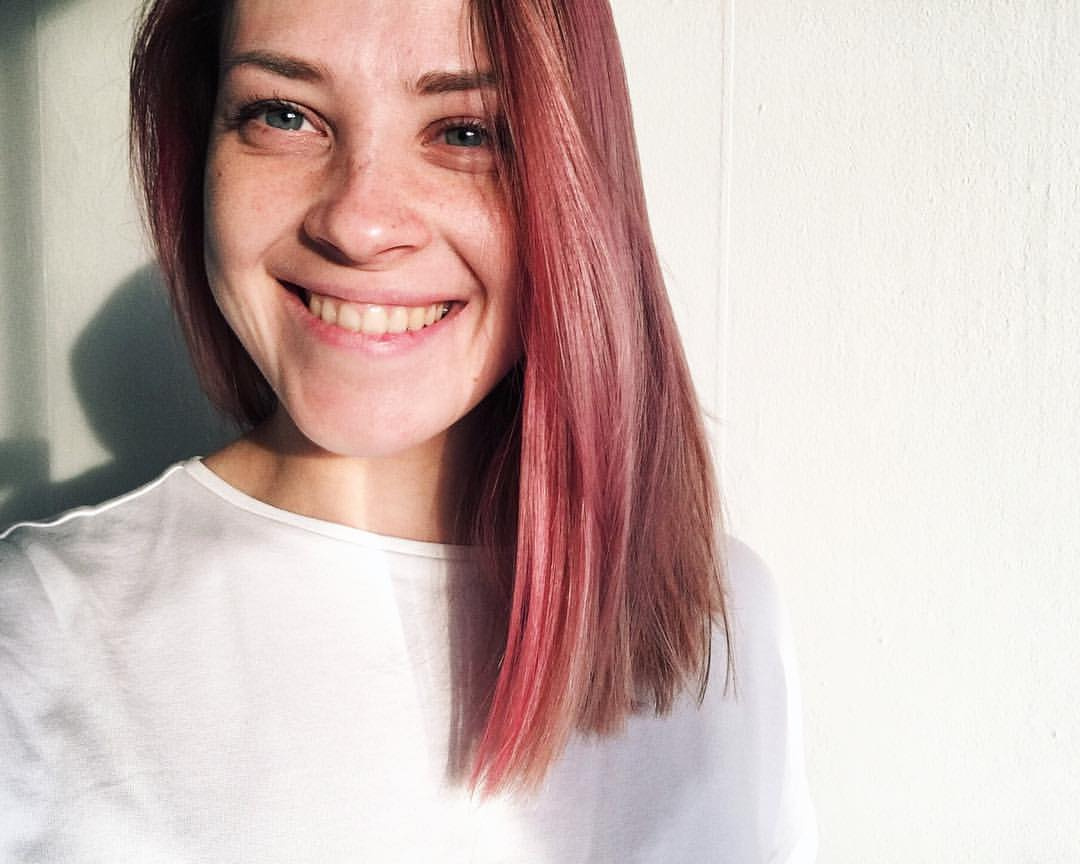
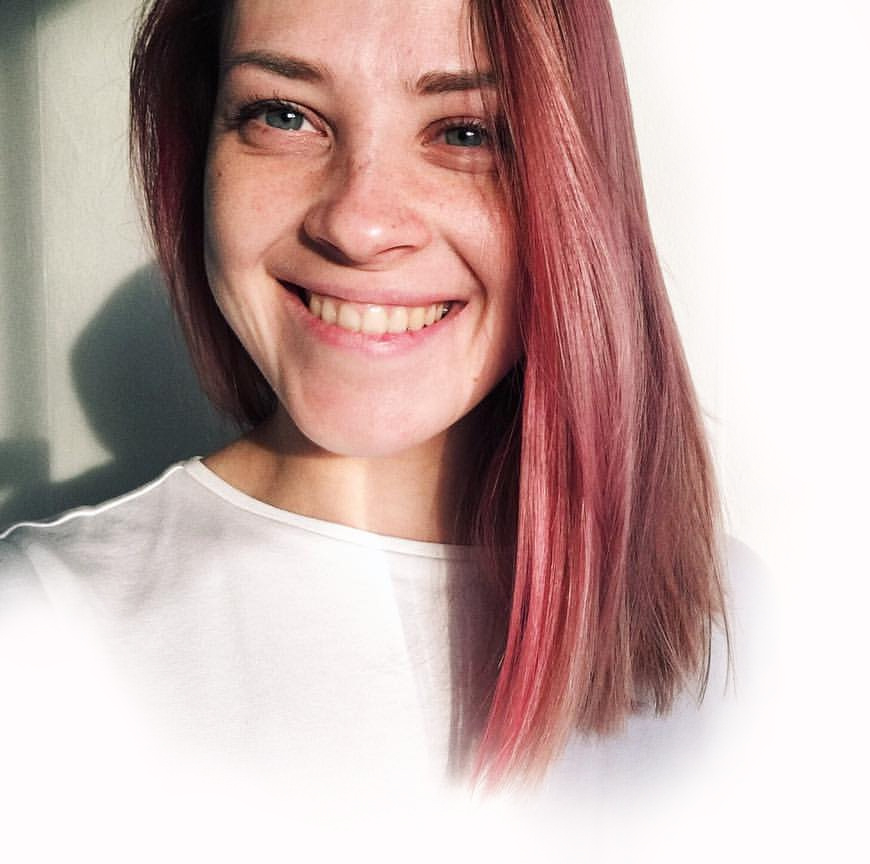
feat: add css styles

diff --git a/index.html b/index.html
@@ -6,14 +6,12 @@
     <meta name="viewport" content="width=device-width, initial-scale=1.0">
     <link rel="stylesheet" href="style.css">
     <title>Anastasia Romanova CV</title>
-    <!-- <link rel="icon" href="assets/favicon.ico"> -->
 </head>
 <body>
     <header class="header">
         <div class="container">
         <nav class="nav">
             <ul class="nav-list">
-                <!-- Можно сразу убрать подчёркивание у ссылок, указать цвет и размер шрифта -->
                 <li class="nav-item"><a href="#contacts" class="nav-link">Contacts</a></li>
                 <li class="nav-item"><a href="#about-me" class="nav-link">About me</a></li>
                 <li class="nav-item"><a href="#education" class="nav-link">Education</a></li>
@@ -26,20 +24,20 @@
         </div>
     </header>
     <main class="main">
-        <div class="container main-container" >
-            <section class="section section-profile" id="profile">
-                <img src="./assets/img/77p6ZeT5WrU.jpg" width="400" alt="photo of Anastasia Romanova">
+        <div class="container profile">
+                <img class="profile-img" src="./assets/img/77p6ZeT5WrU.jpg" width="350" alt="photo of Anastasia Romanova">
                 <div class="section-profile-title">
                     <h1 class="section-title">Anastasia Romanova</h1>
                     <p>Junior Front-End Developer</p>
                 </div>
-            </section>
+        </div>
+        <div class="container main-container" >
             <section class="section" id="contacts">
                 <h2 class="section-title">Contact information</h2>
                 <ul class="section-list">
                     <li class="section-item">Phone: +79851525825</li>
-                    <li class="section-item">Email: <a href="mailto:anastasiya.erohina@gmail.com">anastasiya.erohina@gmail.com</a></li>
-                    <li class="section-item">Github: <a href="https://github.com/anromanova" title="GitHub" target="blanc">anromanova</a></li>
+                    <li class="section-item">Email: <a href="mailto:anastasiya.erohina@gmail.com" class="section-link">anastasiya.erohina@gmail.com</a></li>
+                    <li class="section-item">Github: <a href="https://github.com/anromanova" title="GitHub" target="blanc" class="section-link">anromanova</a></li>
                     <li class="section-item">Russia, Moscow</li>
                 </ul>
             </section>
@@ -63,7 +61,7 @@
             </section>
             <section class="section" id="projects">
                 <h2 class="section-title">My projects</h2>
-                <p><a href="https://anromanova.github.io/rsschool-cv/" title="CV project" target="blanc">CV project</a></p>
+                <p><a href="https://anromanova.github.io/rsschool-cv/" title="CV project" target="blanc" class="section-link">CV project</a></p>
             </section>
             <section class="section" id="skills">
                 <h2 class="section-title">Skills</h2>
@@ -76,14 +74,14 @@
             </section>
             <section class="section" id="code">
                 <h2 class="section-title">Code example</h2>
-                <pre>
-                    <code>
+                    <pre>
+                    <code class="code-style">
 // Write a function "greet" that returns "hello world!"
     let greet = function () {
     return 'hello world!';
     };
                                         </code>
-                </pre>
+                    </pre>
             </section>
             <section class="section" id="languages">
                 <h2 class="section-title">Languages</h2>

diff --git a/style.css b/style.css
@@ -20,18 +20,28 @@
 
 html {
     scroll-behavior: smooth; 
+    margin: 0;
+    padding: 0;
   }
 
+header {
+  background-color: #ffeead;
+}
+
 body {
-    font-family: "Poppins";
-    min-height: 100vh;
     margin: 0 auto; 
     padding: 0;
     display: flex;
     flex-direction: column;
     justify-content: space-between;
     max-width: 1200px;
-};
+
+    font-family: "Poppins", "Arial", sans-serif;
+    font-size: 16px;
+    line-height: 30px;
+    font-weight: 100;
+    min-height: 100vh;
+  };
 
 .container {
     max-width: 1440px;
@@ -43,20 +53,28 @@ body {
 
 .nav-list {
     display: flex;
-    justify-content: flex-end;
+    justify-content: space-around;
     align-items: center;
     list-style: none;
   }
 
 .nav-link {
-    padding: 0 20px;
+    padding: 0 30px;
     line-height: 50px;
+    text-decoration: none;
+    color:#4C54A3;
+  }
+
+.nav-link::after {
+    padding: 0 30px;
+    line-height: 50px;
+    color: #282d39;
     text-decoration: none;
   }
 
 .nav-link:hover {
     transition: .3s;
-    background-color: 	#ff6f69;
+    text-transform: uppercase;
     text-decoration: none;
   }
 
@@ -69,17 +87,23 @@ body {
 .section {
     width: 50%;
     padding: 20px;
-  }
+}
 
-.section-profile {
-    display: flex;
-    justify-content: space-between;
-    width: 100%;
-};
+.profile {
+  margin: 0;
+  padding: 0;
+  padding-top: 20px;
+}
+
+.profile-img {
+  display: block;
+  margin-left: auto;
+  margin-right: auto;
+  border-radius: 50%;
+  object-fit: cover;
+}
 
 .section-profile-title {
-    flex-direction: column;
-    justify-content: center;
     align-content: center;
     text-align: center;
     text-transform: uppercase;
@@ -89,16 +113,36 @@ pre {
     padding: 10px;
     margin: 0;
     font-family: monospace;
-    background-color: #ffeead;
+    background-color: #eeece6de;
     font-size: 18px;
     border-radius: 20px;
+    color: #4C54A3;
+}
+
+.section-link {
+  color:#4C54A3;
+  padding: 0 30px;
+  line-height: 50px;
+  transition: color 0.5s;
+}
+
+.section-link::after {
+  padding: 0 30px;
+  line-height: 50px;
+  color: #282d39;
+  text-decoration: none;
+}
+
+.section-link:hover {
+  transition: .3s;
+  text-decoration: none;
 }
 
 /* footer */
 .github {
     width: 45px;
     height: 45px;
-    background-image: url("./assets/github_logo.svg");
+    background-image: url("./assets/svg/github_logo.svg");
     background-size: contain;
     background-repeat: no-repeat;
 } 
@@ -106,7 +150,7 @@ pre {
 .rss {
     width: 121px;
     height: 45px;
-    background-image: url("./assets/rs_school_js.svg");
+    background-image: url("./assets/svg/rs_school_js.svg");
     background-size: contain;
     background-repeat: no-repeat;
   }
@@ -115,13 +159,13 @@ pre {
     display: flex;
     justify-content: space-between;
     align-items: center;
-    margin: 0 auto;
-    padding: 20px;
+    margin: 0;
+    padding: 0 20px;
     font-size: 18px;
     color: #4C54A3;
-    background-color: #96ceb4;
+    background-color:#ffeead;
 }
 
 .footer {
     display: block;
-};
+}
